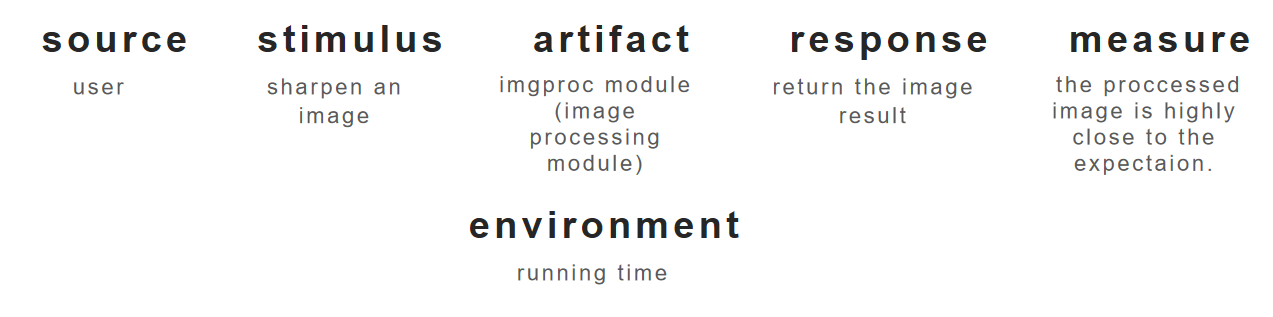
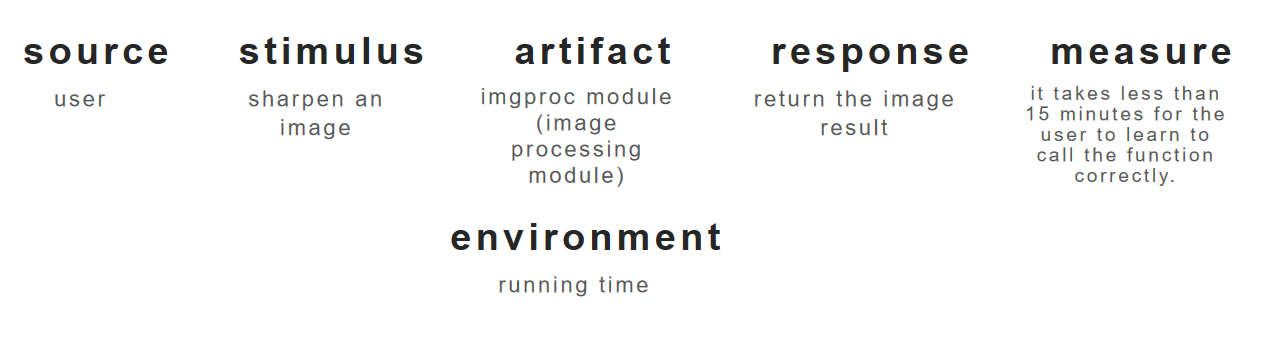
1

diff --git a/Introduction to OpenCV.md b/Introduction to OpenCV.md
@@ -1,6 +1,6 @@
 ## <u>What is OpenCV?</u>
 
-OpenCV stands for Open-Source Computer Vision (Library). It is the most common and popularly used, well-documented Computer Vision library. OpenCV is an open-source library that incorporates numerous computer vision algorithms. OpenCV increases computational efficiency and assists with real-time applications. One of the major goals of OpenCV is to provide an accessible and easy-to-use computer vision infrastructure that helps people build sophisticated computer vision applications quickly.
+	OpenCV stands for Open-Source Computer Vision (Library). It is the most common and popularly used, well-documented Computer Vision library. OpenCV is an open-source library that incorporates numerous computer vision algorithms. OpenCV increases computational efficiency and assists with real-time applications. One of the major goals of OpenCV is to provide an accessible and easy-to-use computer vision infrastructure that helps people build sophisticated computer vision applications quickly.
 
 ## <u>Features of OpenCV</u>
 
@@ -18,7 +18,7 @@ Main features of OpenCV-Python include:
 
 ### User
 
-The people who use openCV to develop machine vision application or study machine vision.
+	The people who use openCV to develop machine vision application or study machine vision.
 
 #### Main Concerns
 
@@ -28,7 +28,7 @@ The people who use openCV to develop machine vision application or study machine
 
 ### Project Manager
 
-Responsible for planning, sequencing, scheduling, and allocating resources to develop software components and deliver components to integration and test activities.
+	Responsible for planning, sequencing, scheduling, and allocating resources to develop software components and deliver components to integration and test activities.
 
 #### Main Concerns
 
@@ -37,7 +37,7 @@ Responsible for planning, sequencing, scheduling, and allocating resources to de
 
 ### Tester
 
-Creating tests based on the behavior and interaction of the software elements. 
+	Creating tests based on the behavior and interaction of the software elements. 
 
 #### Main Concerns
 
@@ -45,9 +45,9 @@ Creating tests based on the behavior and interaction of the software elements.
 
 ## <u>Context</u>
 
-OpenCV was initiated at Intel in the year 1999 by Gary Bradsky. The first release of OpenCV came later in the year 2000. It was originally developed by Intel employees in a research center in Russia, but the project was taken over by a non-profit organization in 2012. OpenCV supports a multitude of Computer Vision and Machine Learning algorithms that are ever-growing.
+	OpenCV was initiated at Intel in the year 1999 by Gary Bradsky. The first release of OpenCV came later in the year 2000. It was originally developed by Intel employees in a research center in Russia, but the project was taken over by a non-profit organization in 2012. OpenCV supports a multitude of Computer Vision and Machine Learning algorithms that are ever-growing.
 
-In the initial stages of OpenCV, the goals of the company were as follows:
+	In the initial stages of OpenCV, the goals of the company were as follows:
 
 1. They sought to make advanced computer vision more accessible by providing open and optimized code for computer vision implementation.
 2. The company aimed to essential open-source computer vision knowledge by providing a common platform that developers could build on, to make the code readily readable and transferable.
@@ -64,15 +64,15 @@ In the initial stages of OpenCV, the goals of the company were as follows:
 
 1. Cross-platform
 
-The key design idea is to keep pipeline code itself platform-neutral while specifying which kernels to use and which devices to utilize using extra parameters at graph compile (configuration) time.
+   	The key design idea is to keep pipeline code itself platform-neutral while specifying which kernels to use and which devices to utilize using extra parameters at graph compile (configuration) time.
 
 2. Performance
 
- It plays a major role in real-time image processing and computer vision tasks which is a necessity for modern applications. OpenCV makes use of NumPy, which is a highly optimized python library for numerical computations. All of the OpenCV array structures are converted to and from NumPy arrays.
+   	 It plays a major role in real-time image processing and computer vision tasks which is a necessity for modern applications. OpenCV makes use of NumPy, which is a highly optimized python library for numerical computations. All of the OpenCV array structures are converted to and from NumPy arrays.
 
 3. Usability
 
-Users can use algorithm in openCV quickly and efficiently through calling function and giving parameters.
+   	Users can use algorithm in openCV quickly and efficiently through calling function and giving parameters.
 
 ## <u>Early Decision</u> 
 
@@ -90,48 +90,58 @@ Users can use algorithm in openCV quickly and efficiently through calling functi
 
 1. Performance
 
-   source: user
-
+   ```
+source: user
    stimulus: smooth a picture
-
-   environment: normal operation
-
+environment: normal operation
    artifact: imgproc module (image processing module)
-
-   response: return the correct result in time
-
+response: return the correct result in time
    response measure: the time spent to smooth the picture should be less than 1s.
-
-   ![](PerformanceSenario.png)
-
+```
+   
+![](PerformanceSenario.png)
+   
 2. usibility
 
-   source: user
-
+   ```
+source: user
    stimulus:  sharpen an image
-
-   artifact: imgproc module (image processing module)
-
+artifact: imgproc module (image processing module)
    environment: running time
-
-   response: return the image result 
-
-   response measure:  the proccessed image is highly close to the expectaion.
+response: return the image result 
+   response measure: it takes less than 15 minutes for the user to learn to call the function correctly.
+```
    
-   ![](UsibilitySenario.png)
+![](UsibilitySenario.png)
 
 ## <u>**Architecture Tactics**</u>
 
-1. Performance: Use concurrent
+1. Performance and Interoperability : Use concurrent and tailor interface
 
-OpenCV has designed a uniform set of vector instructions(universal intrinsics), which can mask the differences between the different instruction sets. It allows you to write a piece of code for vector acceleration on different platforms and instruction sets. 
+   	OpenCV has designed a uniform set of vector instructions(universal intrinsics), which can mask the differences between the different instruction sets. It allows you to write a piece of code for vector acceleration on different platforms and instruction sets. 
 
-OpenCV Universal Intrinsic encapsulates the vectors (vector) of the different SIMD instructions into a unified data structure, overloading the various operators, and describes the vector width as a variable that automatically changes with the compiled environment. 
+   	OpenCV Universal Intrinsic encapsulates the vectors (vector) of the different SIMD instructions into a unified data structure, overloading the various operators, and describes the vector width as a variable that automatically changes with the compiled environment. 
 
 ![](ConcurrentTactic.png)
 
+	SIMD, aka single instruction multiple data, means that a once-run operational instruction can perform more than one data stream. For example, an addition instruction cycle can only calculate a set of numbers (one-dimensional vector addition). Using SIMD, an addition instruction cycle can calculate multiple data concurrently (n-dimensional vector addition), which greatly improves the operation efficiency.
+
+![](SIMD.png)
+
 2. Performance: Reduce Overhead 
 
-OpenCV designed class GMat. Instead of storing the actual data, it records what the user does on the GMat and eventually combines multiple GMat to generate a computational graph to handle the real calculation. GMat can provide cross-function optimization that cannot be provided by decentralized functions internally, such as the merger of arithmetic operations, multiplexing of cache and avoid multiple allocation of buffers.
+   	OpenCV designed class GMat. Instead of storing the actual data, it records what the user does on the GMat and eventually combines multiple GMat to generate a computational graph to handle the real calculation. GMat can provide cross-function optimization that cannot be provided by decentralized functions internally, such as the merger of arithmetic operations, multiplexing of cache and avoid multiple allocation of buffers.
+
+![](ReduceOverheadTactic.png)
+
+## **<u>Architecture Patterns</u>**
+
+Layer Pattern
+
+	There are three layers in GAPI:
+
+- **API Layer** – this is the top layer, which implements G-API public interface, its building blocks and semantics. When user constructs a pipeline with G-API, he interacts with this layer directly, and the entities the user operates on are provided by this layer.
+- **Graph Compiler Layer** – this is the intermediate layer which unrolls user computation into a graph and then applies a number of transformations to it. This layer is built atop of ADE Framework.
+- **Backends Layer** – this is the lowest level layer, which lists a number of Backends. In contrast with the above two layers, backends are highly coupled with low-level platform details, with every backend standing for every platform. A backend operates on a processed graph (coming from the graph compiler) and executes this graph optimally for a specific platform or device.
 
 ![](high-leveldesign.png)
